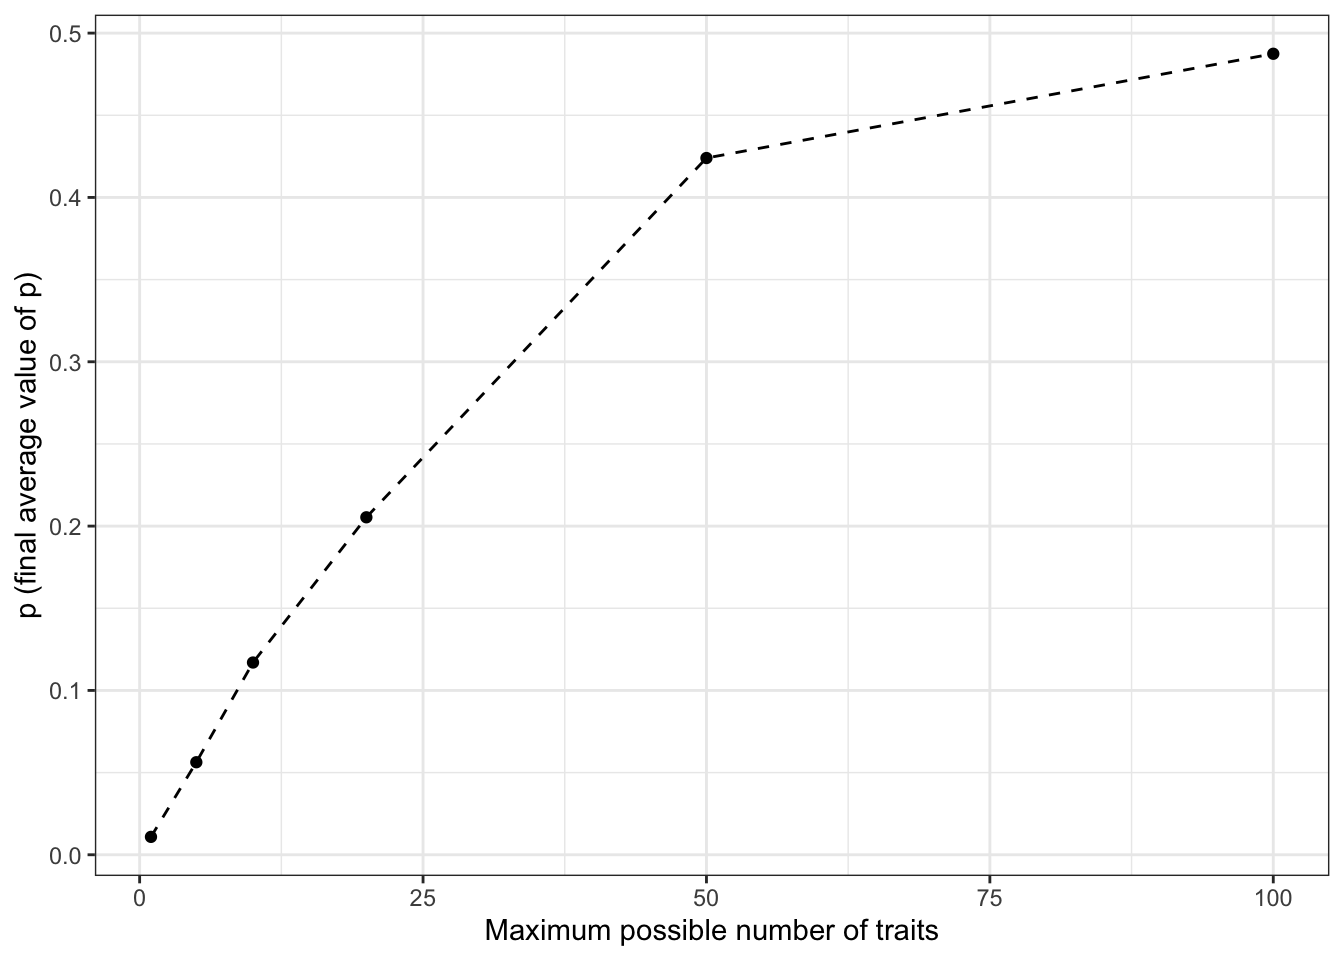
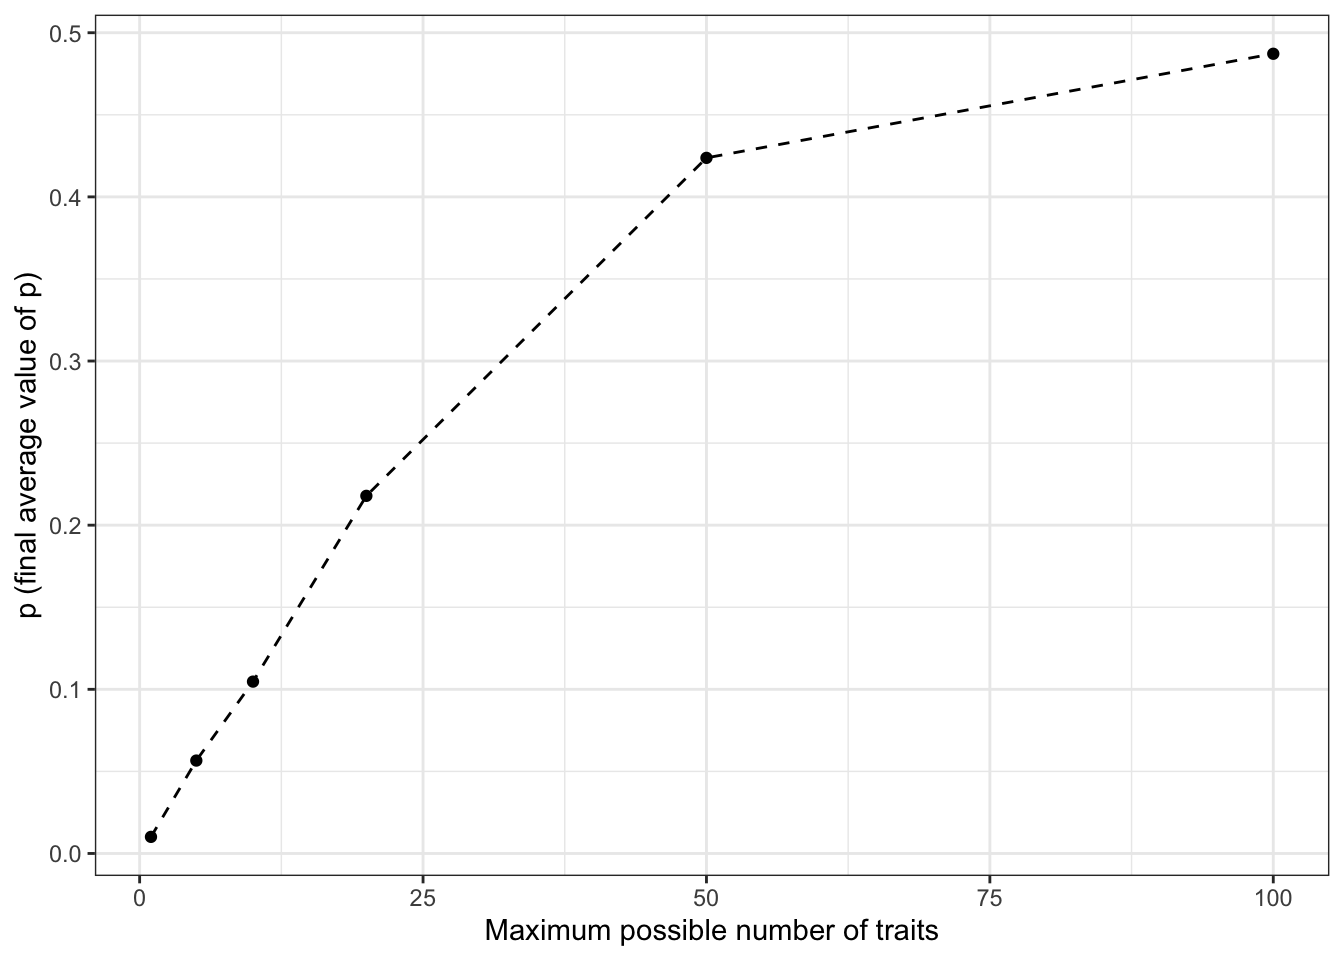
added explanation for the code

diff --git a/_book/social-learning-of-social-learning-rules.html b/_book/social-learning-of-social-learning-rules.html
@@ -307,7 +307,7 @@ population &lt;-<span class="st"> </span><span class="kw">tibble</span>(<span cl
 <p>We can explcitly visualise the relationship between <span class="math inline">\(M\)</span> and population openness after <span class="math inline">\(1000\)</span> generations for few representative values of <span class="math inline">\(M\)</span>. We consider only a single run for each condition as, from the previous results, we know that different runs give very similar results.</p>
 <div class="sourceCode"><pre class="sourceCode r"><code class="sourceCode r">test_openness &lt;-<span class="st"> </span><span class="kw">tibble</span>(<span class="dt">M =</span> <span class="kw">c</span>(<span class="dv">1</span>,<span class="dv">5</span>,<span class="dv">10</span>,<span class="dv">20</span>,<span class="dv">50</span>,<span class="dv">100</span>), <span class="dt">p =</span> <span class="kw">rep</span>(<span class="ot">NA</span>, <span class="dv">6</span>))
 <span class="cf">for</span>(condition <span class="cf">in</span> test_openness<span class="op">$</span>M){
-  data_model &lt;-<span class="st"> </span><span class="kw">openness_conservatism_2</span>(<span class="dt">N =</span> <span class="dv">100</span>, <span class="dt">M =</span> condition, <span class="dt">mu =</span> <span class="fl">0.1</span>, <span class="dt">p_death =</span> <span class="fl">0.01</span>, <span class="dt">t_max =</span> <span class="dv">1000</span>, <span class="dt">r_max =</span> <span class="dv">1</span>)
+  data_model &lt;-<span class="st"> </span><span class="kw">openness_conservatism_2</span>(<span class="dt">N =</span> <span class="dv">1000</span>, <span class="dt">M =</span> condition, <span class="dt">mu =</span> <span class="fl">0.1</span>, <span class="dt">p_death =</span> <span class="fl">0.01</span>, <span class="dt">t_max =</span> <span class="dv">1000</span>, <span class="dt">r_max =</span> <span class="dv">1</span>)
   test_openness[test_openness<span class="op">$</span>M <span class="op">==</span><span class="st"> </span>condition, ]<span class="op">$</span>p &lt;-<span class="st"> </span>data_model[data_model<span class="op">$</span>generation <span class="op">==</span><span class="st"> </span><span class="dv">1000</span>, ]<span class="op">$</span>p
 }
 <span class="kw">ggplot</span>(<span class="dt">data =</span> test_openness, <span class="kw">aes</span>(<span class="dt">x =</span> M, <span class="dt">y =</span> p)) <span class="op">+</span>
@@ -316,11 +316,12 @@ population &lt;-<span class="st"> </span><span class="kw">tibble</span>(<span cl
 <span class="st">  </span><span class="kw">theme_bw</span>() <span class="op">+</span>
 <span class="st">  </span><span class="kw">labs</span>(<span class="dt">x =</span> <span class="st">&quot;Maximum possible number of traits&quot;</span>, <span class="dt">y =</span> <span class="st">&quot;p (final average value of p)&quot;</span>)</code></pre></div>
 <p><img src="_main_files/figure-html/14.12-1.png" width="672" /></p>
-<p>you can find if it is true the explanation. - You can do the same for <span class="math inline">\(p_\text{death}\)</span>,</p>
+<p>The more cultural traits that are possible to acquire, the more individuals remain open. Why is that the case? As we saw before, a conservative individual will be able to spread its traits because they are more stable (remember the red t-shirt example). On the other hand, to be copied, an individual needs to showcase its traits. As the traits are chosen at random, it is better for an individual - from the point of view of its cultural success - to have many traits. These two requirments are in conflict: to acquire many traits an individual needs to remain relatively open.</p>
+<p>For this reason, when the cultural repertorie is big, individuals will remain open longer. You can easily check by yourself that decreasing <span class="math inline">\(p_\text{death}\)</span> has a similar effect of decreasing <span class="math inline">\(M\)</span>. Individual living longer will generate more conservative populations. With a bit of work to the code, the same effect can be produced if individual can learn faster. You can add a parameter to the model that tells how many traits an observer copies from the demonstrator at each interaction (in our case, this parameter was fixed to 1). The more effective is cultural transmission, the more conservative the populations. All depends on whether individuals have time to to optimise <em>both</em> openness and conservatism: big repertories, short lifespans, and uneffective cultural transmission maintains relatively open populations.</p>
 </div>
 <div id="summary-of-the-model-7" class="section level2">
 <h2><span class="header-section-number">7.3</span> Summary of the model</h2>
-<p>TO DO</p>
+<p>Regardless of the particular results</p>
 <hr />
 </div>
 <div id="analytical-appendix-7" class="section level2">
